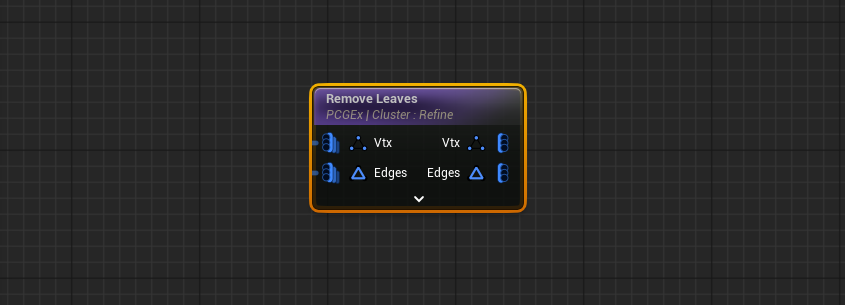
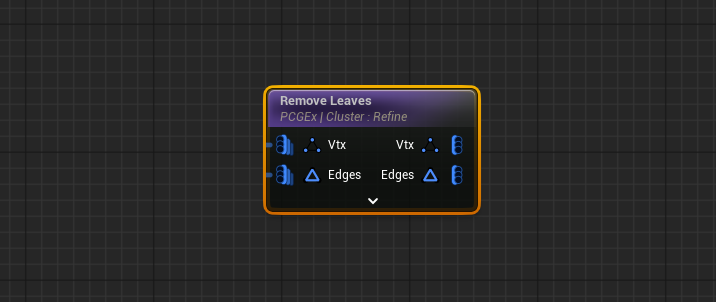
GITBOOK-122: No subject

Changed region(s): [[0.338, 0.2682, 0.676, 0.7152]]

diff --git a/infos/changelogs/v0.66-cooking.md b/infos/changelogs/v0.66-cooking.md
@@ -61,7 +61,7 @@ Technically not a new node, but a hard-to-discover update so here's a shout-out.
 
 While it was already easy to use [Simplify Cluster](../../node-library/clusters/simplify.md) to remove leaves, it always bugged me there was no faster alternative — _Simplify Cluster computes an internal, path-only representation of the cluster to support all the parameters and feature it exposes_ — here it is! You can now use Remove Leaves with the [Refine Cluster](../../node-library/clusters/refine-cluster/) node.&#x20;
 
-<figure><img src="../../.gitbook/assets/image (1).png" alt=""><figcaption></figcaption></figure>
+<figure><img src="../../.gitbook/assets/image (1) (2).png" alt=""><figcaption></figcaption></figure>
 
 ## Filters
 

diff --git a/basics/quickstart/example-project.md b/basics/quickstart/example-project.md
@@ -46,3 +46,5 @@ The example project has a lot of "utilitary" subgraphs that handle boilerplate t
 {% hint style="danger" %}
 Note that **the example project is only maintained for the latest version of the engine**. If you're interested in older version, they are preserved in their own branch on git and do not represent the breadth of what's available on latest.
 {% endhint %}
+
+<figure><img src="../../.gitbook/assets/image.png" alt=""><figcaption><p>A few of the feature showcase &#x26; examples available</p></figcaption></figure>
